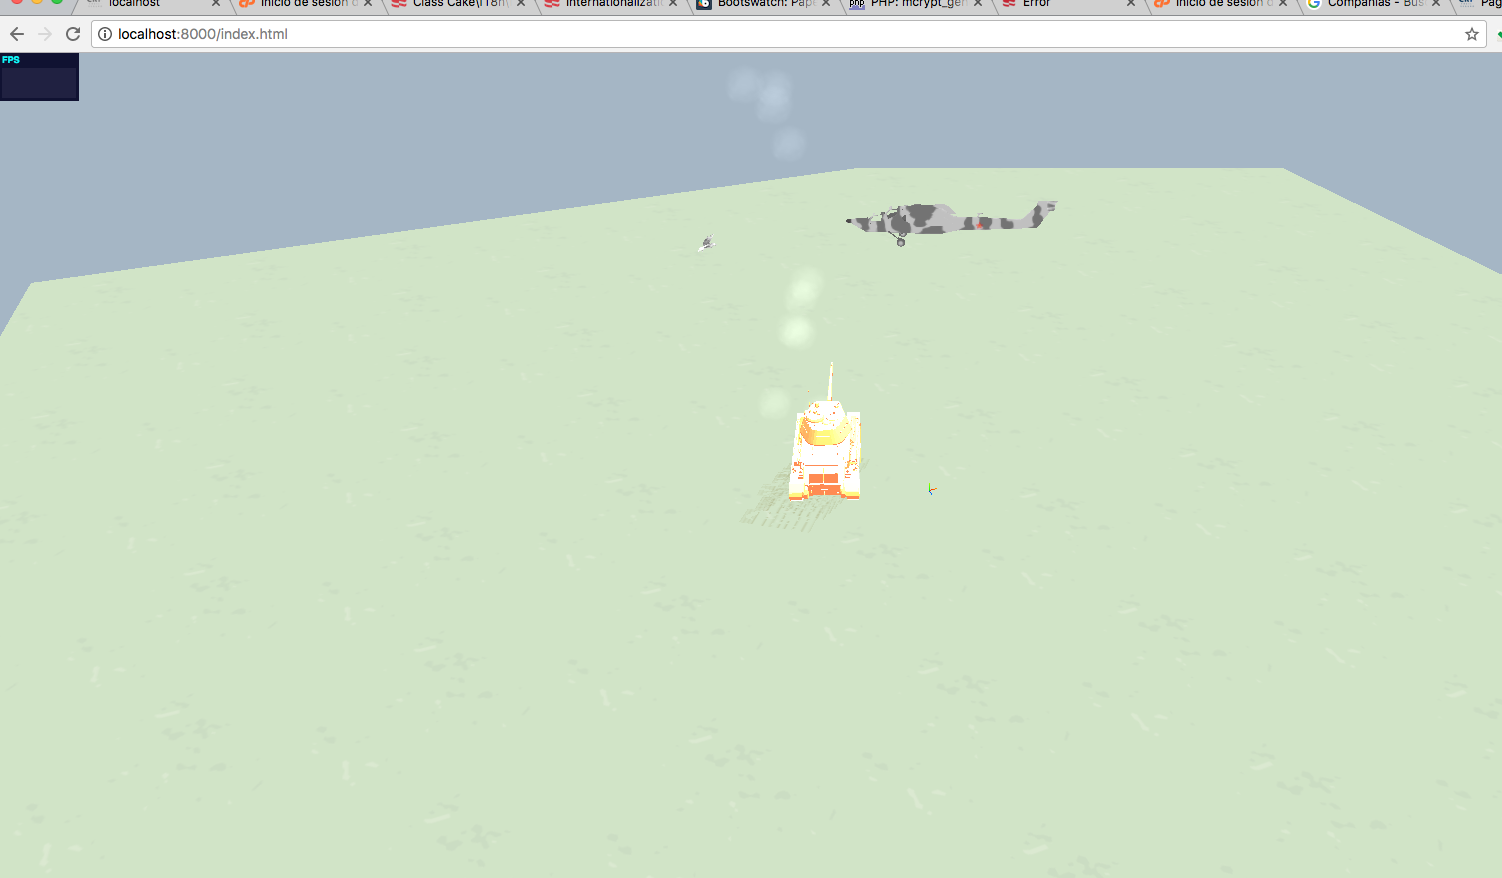
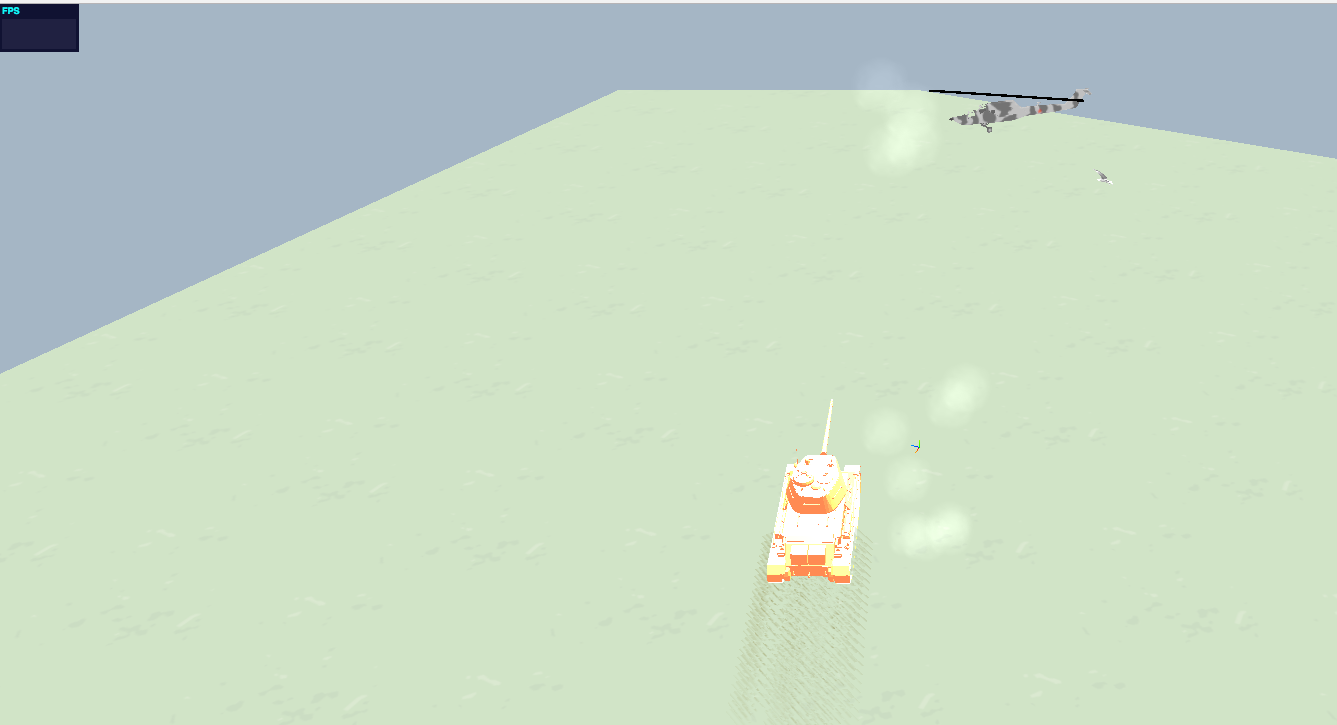
Voltar emperor jupiter living clouds floating physics ...

diff --git a/3D/Util/AI/selfCenteredHorizontalRotator.js b/3D/Util/AI/selfCenteredHorizontalRotator.js
@@ -1,14 +1,75 @@
 /**
- * horizontal propellers and rotating assets soul ...
- * 
+ * horizontal propellers and rotating assets ...
+ *
+ *   ______.........--=T=--.........______
+ *      .             |:|
+ *  :-. //           /""""""-.
+ *  ': '-._____..--""(""""""()`---.__
+ *  /:   _..__   ''  ":""""'[] |""`\\
+ *   ': :'     `-.     _:._     '"""" :
+ *   ::          '--=:____:.___....-"
+ *                   O"       O" grp
+ *
+ * the vietcong cant shoot pilots dick because of the huey floor window ...
+ *
  * @author Rolando <rolando@emptyart.xyz>
  */
 var selfCenteredHorizontalRotator = (function(){
 
   function selfCenteredHorizontalRotator(){
+    this.modelUrl = "/emptyLibJS/3D/Games/Kalero/assets/mi28/Mi28.json";
+    this.textureUrl = "/emptyLibJS/3D/Games/Kalero/assets/mi28/Mi28NA.png";
+    this.game = null;
+    this.geometry = null;
+    this.mesh = null;
+    this.gameIsSet = false;
+    this.meshName = "";
+    this.centerMeshName = "";
+    this.radiusLength = 300;
+
+    this.origin = {x:0,y:50,z:0};
+
+    this.speed = 3;
+    this.clockWise = true;
+    this.modelLoaded = false;
+    this.scale = 2;
+    this.color = 0xFFFFFF;
+  }
+
+  selfCenteredHorizontalRotator.prototype.setGame = function(game){
+    this.game = game;
+    this.gameIsSet = true;
+  }
+
+  selfCenteredHorizontalRotator.prototype.loadModel = function(modelUrl){
+    var loader = new THREE.JSONLoader();
+    loader.load(modelUrl,(function(model,materials){
+      var texture = THREE.ImageUtils.loadTexture(this.textureUrl);
+      var material = new THREE.MeshBasicMaterial({map:texture});
+      this.mesh = new THREE.Mesh(model, material);
+      this.mesh.name = this.meshName;
+      this.mesh.scale.set(this.scale,this.scale,this.scale);
+      this.mesh.position.y = this.altitude;
+      this.game.scene.add(this.mesh);
+      this.modelLoaded = true;
+      this.postLoad();
+    }).bind(this));
+  }
+
+  selfCenteredHorizontalRotator.prototype.postLoad = function(){
 
   }
 
+  selfCenteredHorizontalRotator.prototype.postRender = function(){
+
+  }
+
+  selfCenteredHorizontalRotator.prototype.onRender = function(){
+    if(this.modelLoaded){
+      this.mesh.rotation.y = (this.clockWise ? this.mesh.rotation.y + this.speed : this.mesh.rotation.y - this.speed);;
+      this.postRender();
+    }
+  }
   return selfCenteredHorizontalRotator;
 })();
 eO._3D.Util.AI.selfCenteredHorizontalRotator = selfCenteredHorizontalRotator;

diff --git a/3D/Games/Kalero/HeliPropeller.js b/3D/Games/Kalero/HeliPropeller.js
@@ -4,8 +4,38 @@
  * @author Rolando <rolando@emptyart.xyz>
  */
 function HeliPropeller(){
-
+  this.modelUrl = "/emptyLibJS/3D/Games/Kalero/assets/Eagle.json";
+  this.textureUrl = "/emptyLibJS/3D/Games/Kalero/assets/mi28/Mi28NA.png";
+  this.game = null;
+  this.geometry = null;
+  this.mesh = null;
+  this.gameIsSet = false;
+  this.meshName = "helice";
+  this.centerMeshName = "";//this. will follow while turning
+  this.altitude = 50;//y
+  this.origin = {x:0,y:50,z:0};
+  this.speed = 0.9;
+  this.clockWise = true;
+  this.modelLoaded = false;
+  this.scale = 2;
+  this.color = 0x000000;
+  eO._3D.Util.AI.selfCenteredHorizontalRotator.call(this.p);
 }
 
-HeliPropeller.prototype = Object.create(eO._3D.Util.AI.selfCenteredHorizontalRotator);
+HeliPropeller.prototype = Object.create(eO._3D.Util.AI.selfCenteredHorizontalRotator.prototype);
 HeliPropeller.prototype.constructor = HeliPropeller;
+
+HeliPropeller.prototype.loadModel = function(modelUrl){
+  //var material = new THREE.MeshPhongMaterial();
+  var material = new THREE.MeshBasicMaterial({color:this.color});
+  //material.color.set(this.color);
+  this.geometry = new THREE.BoxGeometry(3,0.5,100);
+  this.mesh = new THREE.Mesh(this.geometry,material);
+  this.mesh.name = this.meshName;
+  this.mesh.position.x = this.origin.x;
+  this.mesh.position.y = this.origin.y;
+  this.mesh.position.z = this.origin.z;
+  this.game.scene.add(this.mesh);
+  this.modelLoaded = true;
+  this.postLoad();
+}

diff --git a/3D/Games/Kalero/Helicoptero.js b/3D/Games/Kalero/Helicoptero.js
@@ -29,12 +29,19 @@ Helicoptero.prototype.constructor = Helicoptero;
 
 Helicoptero.prototype.postLoad = function(){
   this.mesh.rotation.y = -90;
+  this.initPropeller();
 }
 
 Helicoptero.prototype.initPropeller = function(){
   this.propeller = new HeliPropeller();
+  this.propeller.origin.y = this.altitude + 10;
+  this.propeller.setGame(this.game);
+  this.propeller.loadModel("/cube/");
 }
 
 Helicoptero.prototype.postRender = function(){
   this.mesh.rotation.y = this.mesh.rotation.y - 0.05;
+  this.propeller.mesh.position.x = this.mesh.position.x;
+  this.propeller.mesh.position.z = this.mesh.position.z;
+  this.propeller.onRender();
 }

diff --git a/3D/Games/Kalero/Kalero.js b/3D/Games/Kalero/Kalero.js
@@ -94,6 +94,6 @@ Kalero.prototype.preRender = function(){
   if(this.tank.is_running){
       this.tank.muffler.onRender();
   }
-  //this.bgHelicopter.onRender();
+  this.bgHelicopter.onRender();
   this.condor.onRender();
 }
